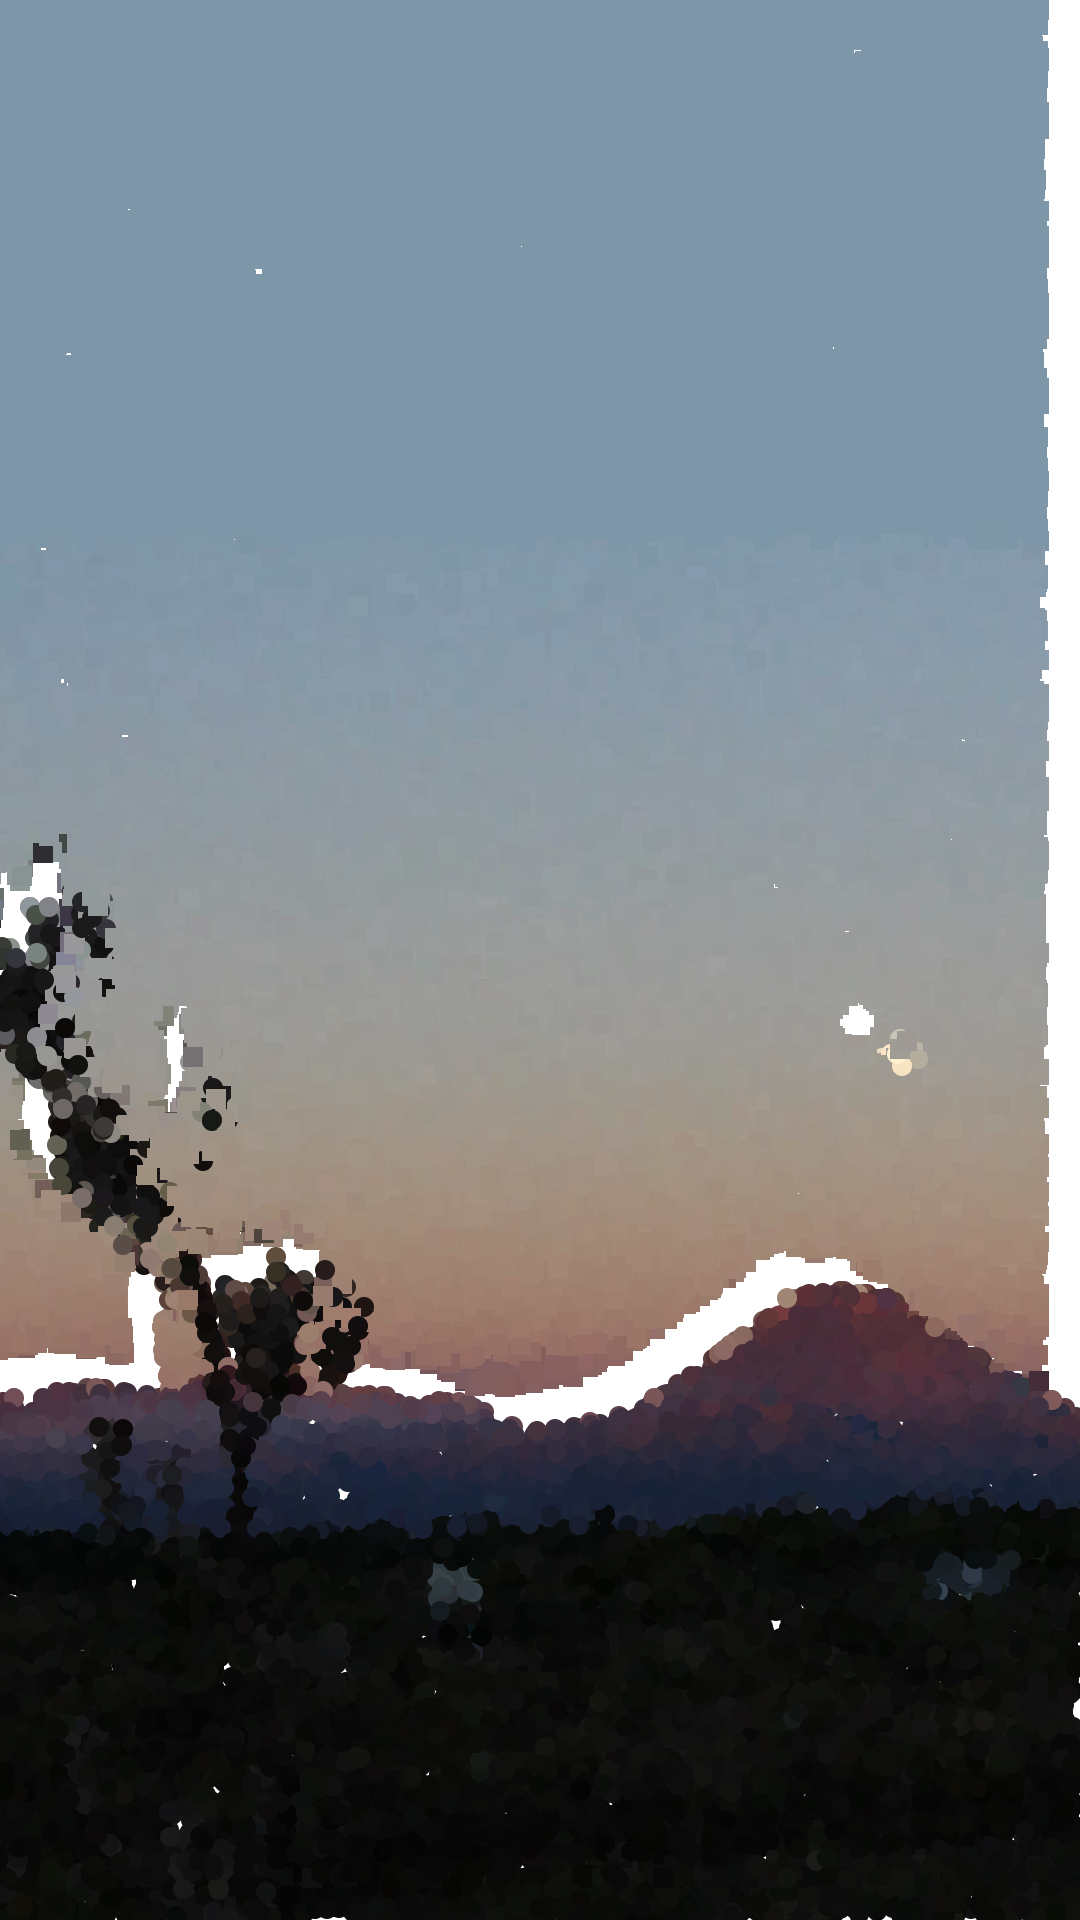
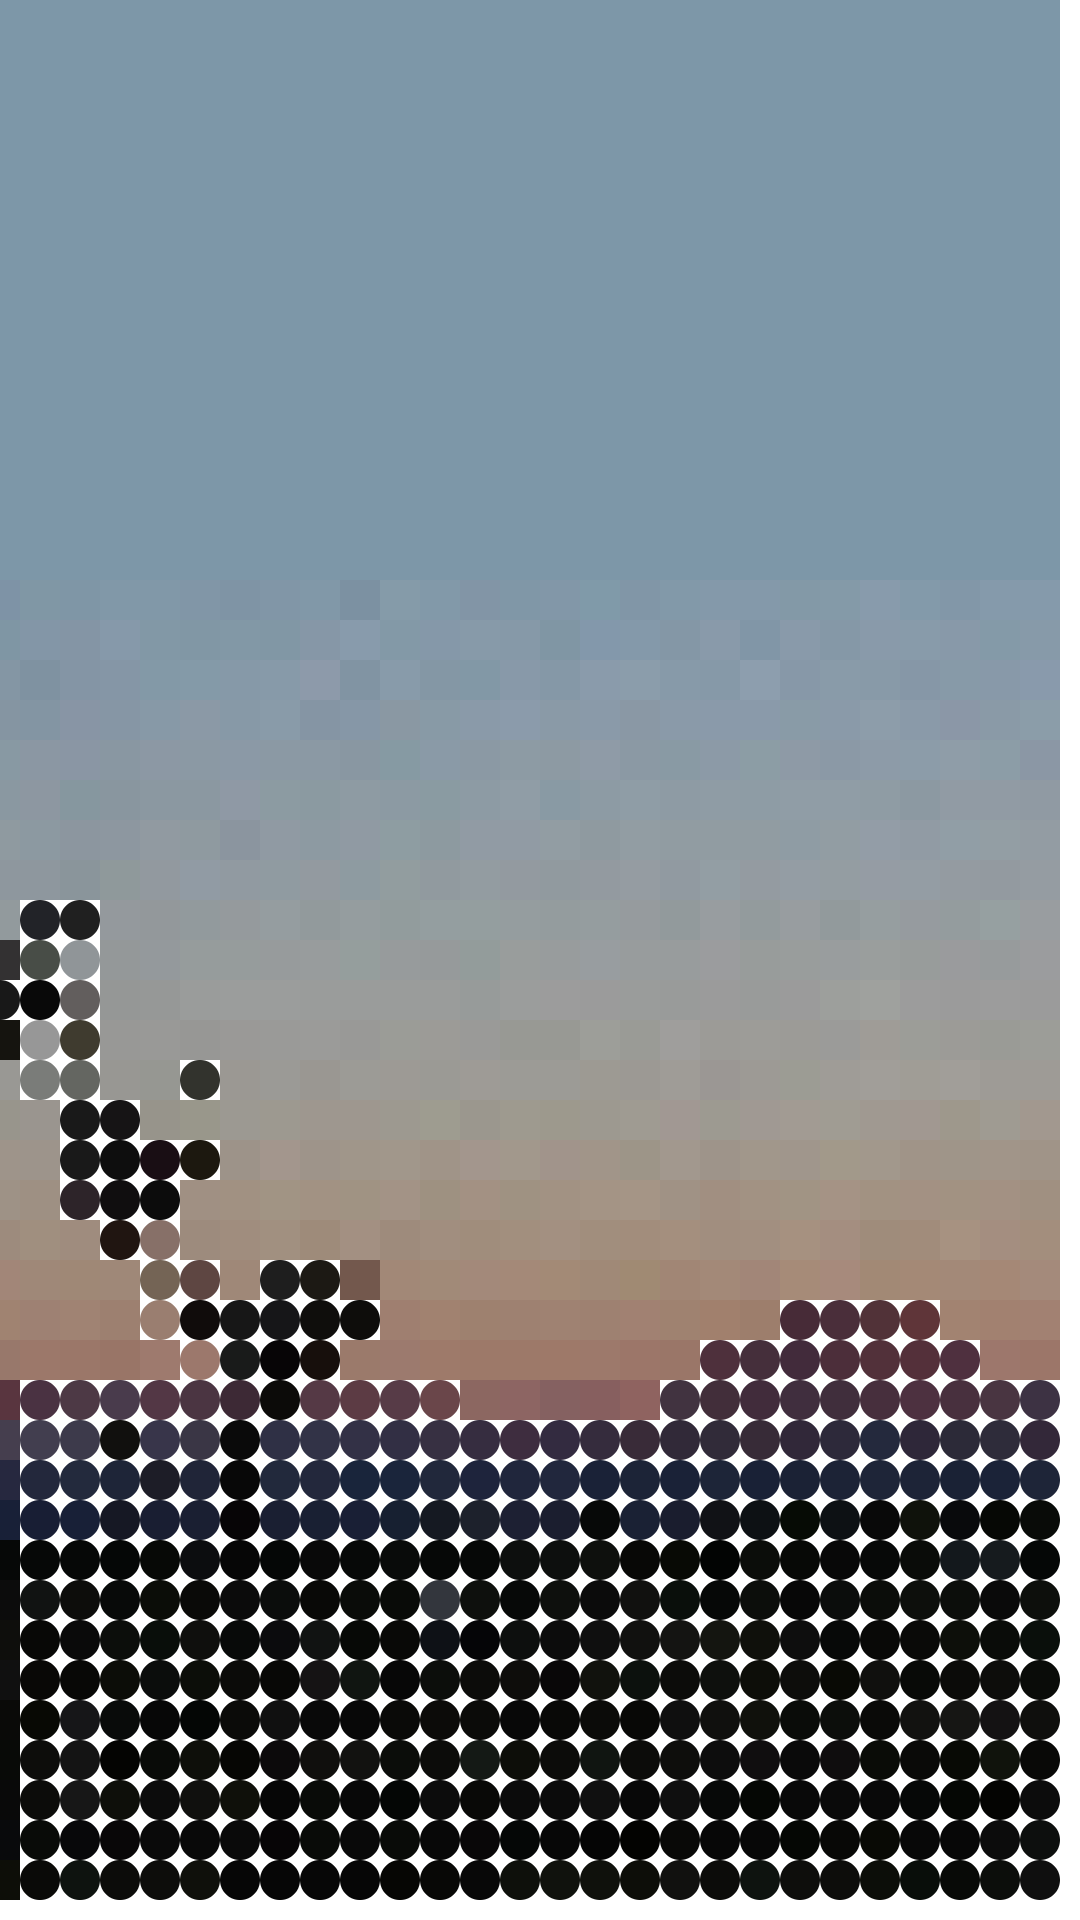
new stuff

Changed region(s): [[0.0, 0.0, 1.0, 1.0], [0.7639, 0.5312, 0.8556, 0.5625]]

diff --git a/sketch.js b/sketch.js
@@ -1,6 +1,7 @@
 let sourceImg=null;
 let maskImg=null;
 let renderCounter=0;
+let pointSize = 40;
 
 function preload() {
   sourceImg = loadImage("input_3.jpg");
@@ -22,23 +23,25 @@ function setup () {
 function draw () {
 
   //colorMode(HSB,255);
-  for(let i=0;i<100;i++) {
-    let x = floor(random(sourceImg.width));
-    let y = floor(random(sourceImg.height));
+  for(let i=0;i<1080/pointSize;i++) {
+    let x = int(i * pointSize);
+    let y = int(renderCounter * pointSize);
+    //let x = floor(random(sourceImg.width));
+    //let y = floor(random(sourceImg.height));
     let pix = sourceImg.get(x, y);
     let mask = maskImg.get(x, y);
-    let pointSize = 100;
-    let halfSize = 50;
+    //let pointSize = 100;
+    let halfSize =pointSize/2;
     fill(pix);
     if(mask[0] > 128) {
-      ellipse(x, y, pointSize/5, pointSize/5);
+      ellipse(x, y, pointSize, pointSize);
     }
     else {
-      rect(x-halfSize, y-halfSize, pointSize/5, pointSize/5);    
+      rect(x-halfSize, y-halfSize, pointSize, pointSize);    
     }
   }
   renderCounter = renderCounter + 1;
-  if(renderCounter > 500) {
+  if(renderCounter >  1920/pointSize) {
     console.log("Done!")
     noLoop();
     // saveBlocksImages();

diff --git a/README.md b/README.md
@@ -1,6 +1,5 @@
 ## Creative Coding 2: Custom Pixel
 
-working on my own photo now and looking into other ways I can display it and use the program to enhance my photograph etc. 
-
+I am now looking at different ways to display my image and paying around with the different features. I dont think I will try this one again as I dont think it works well with this image. I might look into other images and see if I can see a theme to use for this project. 
 
 The images above are photos of Wellington CBD algorithmically processed with a lightly modified version of the [p5.js Pointillism example](https://p5js.org/examples/image-pointillism.html). The masks for each photo highlight various objects. Replace this text with your own which explains the source of your photos, masking, and applied algorithm.
